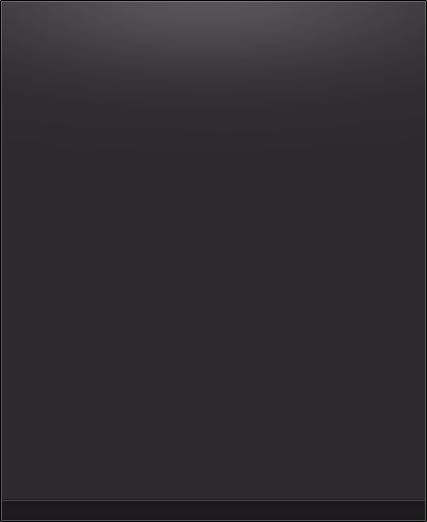
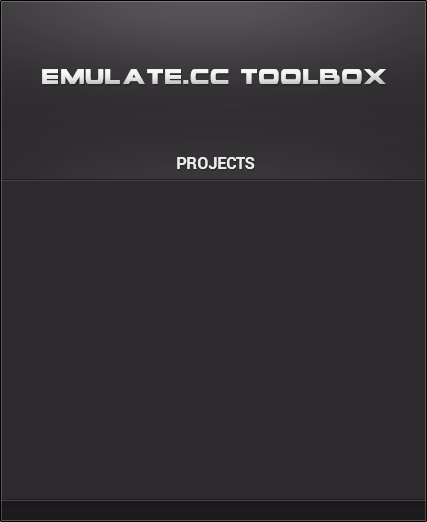
Adding ProjectOverview Grid

Changed region(s): [[0.0913, 0.1226, 0.9133, 0.1839], [0.3958, 0.2759, 0.6089, 0.3372]]

diff --git a/Toolbox/ProjectManagement/ProjectOverview.xaml b/Toolbox/ProjectManagement/ProjectOverview.xaml
@@ -23,7 +23,8 @@
     </Window.Background>
     <Grid>
         <UserContols:CloseButton x:Name="close" Margin="10" Click="close_Click" HorizontalAlignment="Right" VerticalAlignment="Top"/>
-        <UserControls:PrimaryButton x:Name="startProject" Click="startProject_Click" HorizontalAlignment="Left" Margin="285,447,0,0" VerticalAlignment="Top" Width="118" Content="+ START PROJECT"/>
-        <UserControls:PrimaryButton x:Name="deleteProject" Click="deleteProject_Click" HorizontalAlignment="Left" Margin="30,447,0,0" VerticalAlignment="Top" Width="118" Content="- DELETE PROJECT"/>
+        <UserControls:PrimaryButton x:Name="startProject" Click="startProject_Click" HorizontalAlignment="Left" Margin="286,438,0,0" VerticalAlignment="Top" Width="118" Content="+ START PROJECT"/>
+        <UserControls:PrimaryButton x:Name="deleteProject" Click="deleteProject_Click" HorizontalAlignment="Left" Margin="21,437,0,0" VerticalAlignment="Top" Width="118" Content="- DELETE PROJECT"/>
+        <UserControls:ProjectStackPanel HorizontalAlignment="Left" Height="230" Margin="22,191,0,0" VerticalAlignment="Top" Width="383"/>
     </Grid>
 </Window>

diff --git a/Toolbox.Resources/UserControls/ProjectStackPanel.xaml b/Toolbox.Resources/UserControls/ProjectStackPanel.xaml
@@ -16,7 +16,7 @@
             <Setter Property="Stylus.IsFlicksEnabled" Value="False"/>
         </Style>
     </UserControl.Resources>
-    <Border BorderBrush="Red" CornerRadius="2" BorderThickness="1">
-        <DockPanel Style="{DynamicResource DockPanel}" VerticalAlignment="Top" />
-    </Border>
+    <Border Background="#212121" BorderBrush="#424042" CornerRadius="2" BorderThickness="1">
+            <Grid></Grid>
+        </Border>
 </UserControl>

diff --git a/Toolbox.Resources/UserControls/PrimaryButton.xaml.cs b/Toolbox.Resources/UserControls/PrimaryButton.xaml.cs
@@ -20,7 +20,7 @@ namespace Toolbox.Resources.UserControls
     /// </summary>
     public partial class PrimaryButton : UserControl
     {
-        public readonly new static DependencyProperty ContentProperty = DependencyProperty.Register("Content", typeof(object), typeof(PrimaryButton));
+        public new static DependencyProperty ContentProperty = DependencyProperty.Register("Content", typeof(object), typeof(PrimaryButton));
         public event EventHandler Click;
 
         public PrimaryButton()
